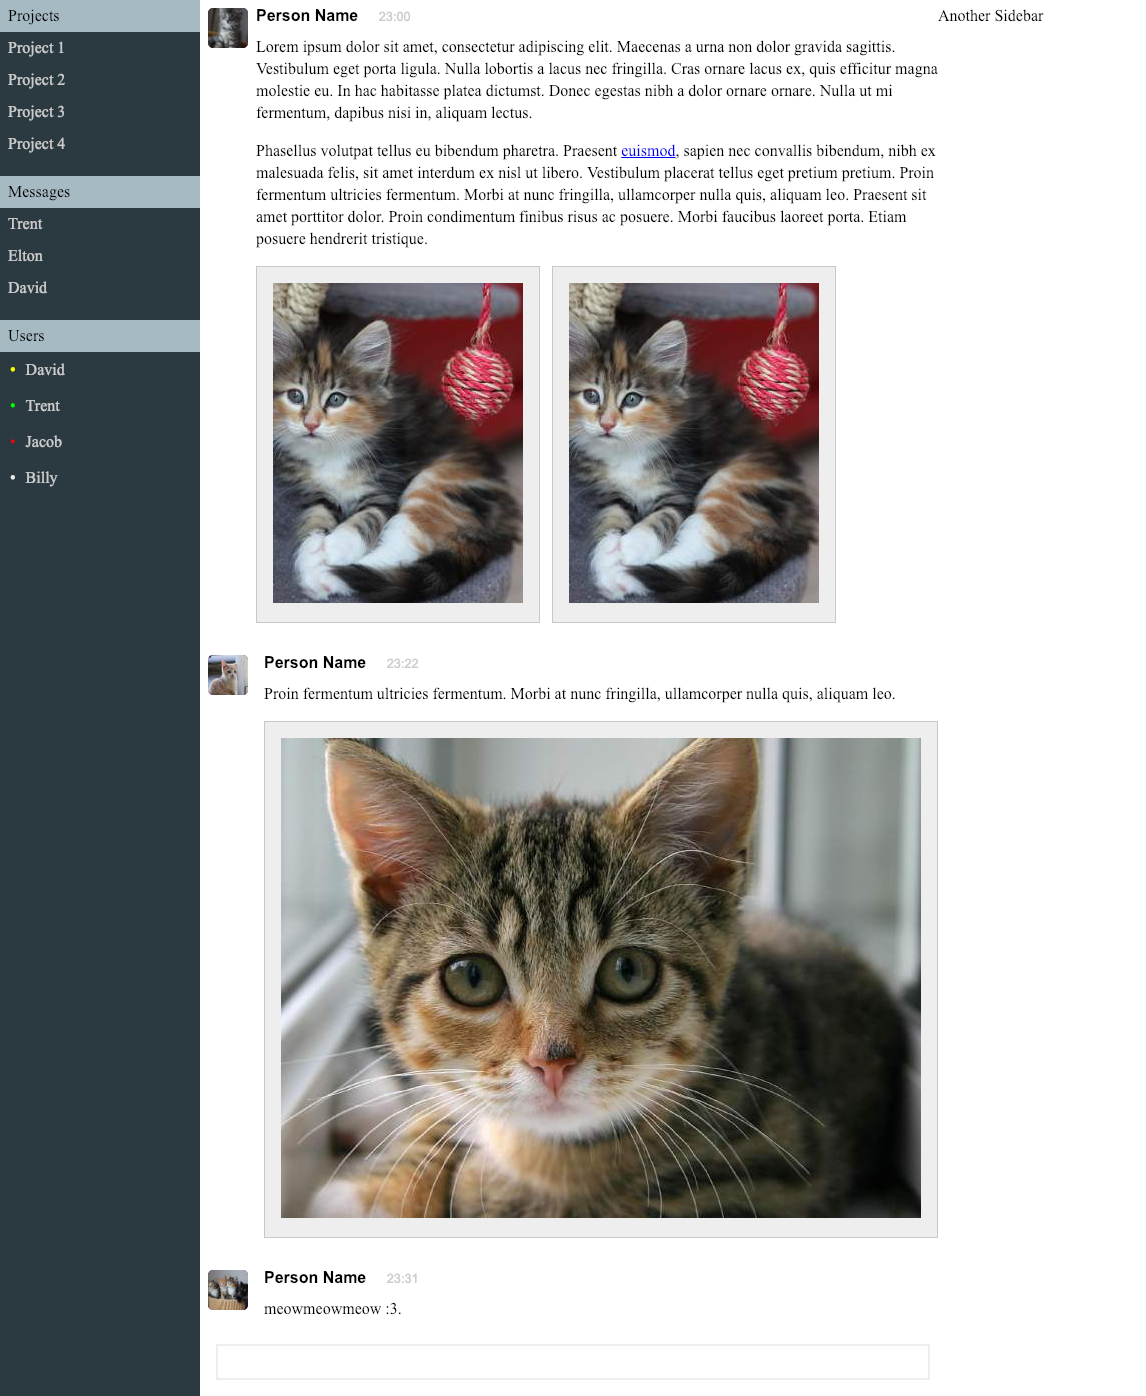
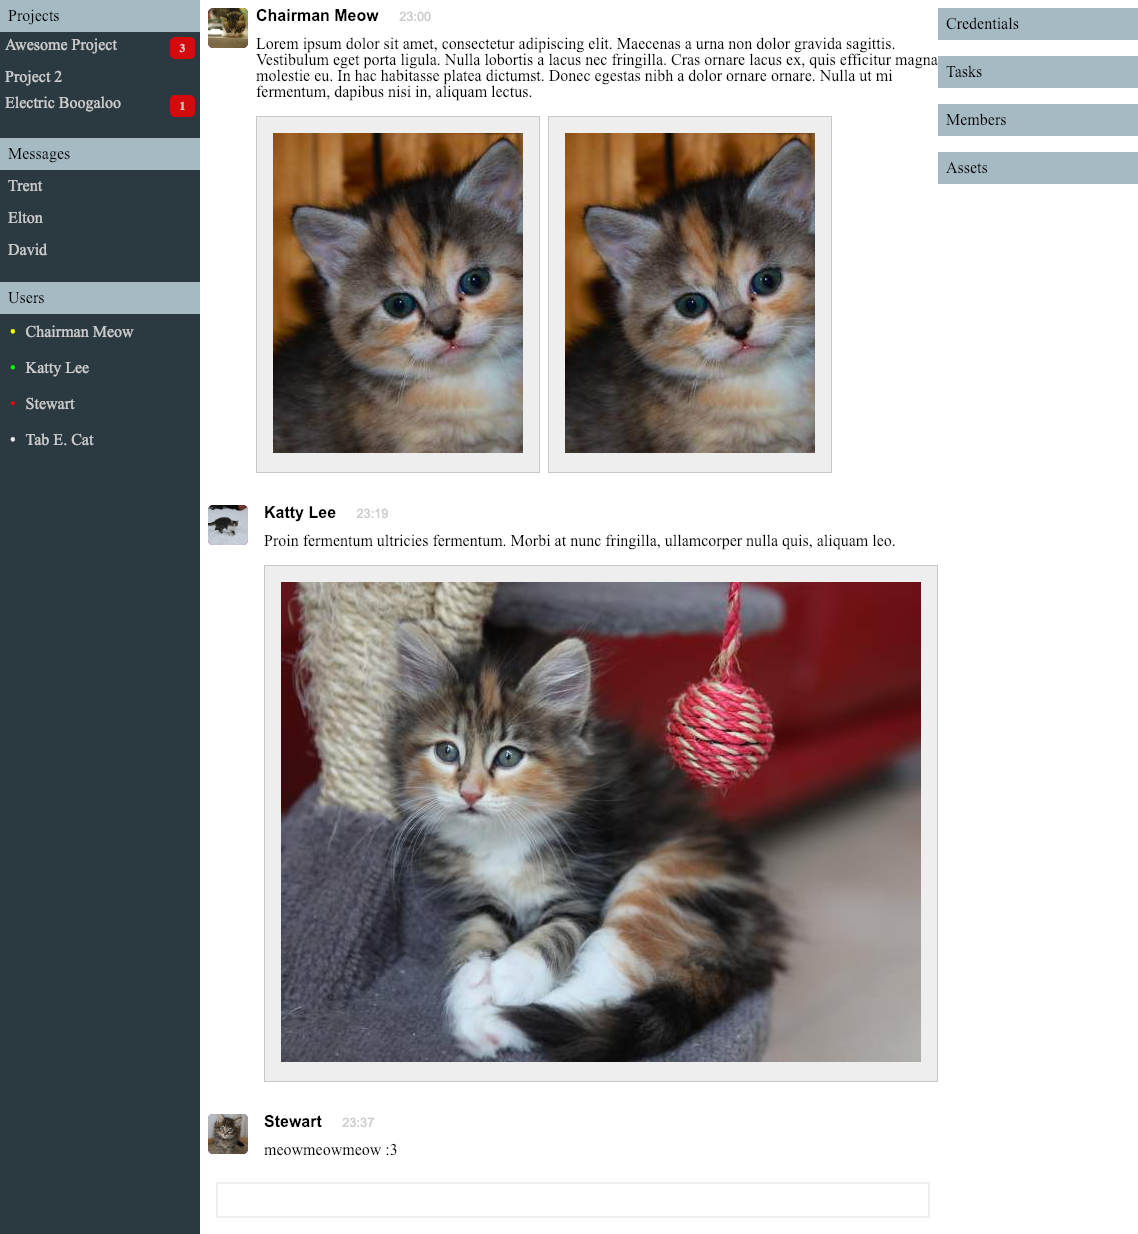
Add mock projects api

diff --git a/app/javascript/packs/components/projects_list.vue b/app/javascript/packs/components/projects_list.vue
@@ -1,15 +1,44 @@
 <template>
     <ul class="projects-list">
-        <li v-for="index in 5" class="project">
-            Project {{ index }}
+        <li v-for="(project, index) in projects" :key="index" class="project">
+            <div class="pill-cell">
+                <span>{{ project.name }}</span>
+
+                <span v-if="project.counter > 0" class="pill">{{ project.counter }}</span>
+            </div>
         </li>
     </ul>
 </template>
 
 <script>
      export default {
-        props: {
-            "projects": Array            
+        data() {
+            return {
+                projects: []
+            }
+        },
+
+        methods: {
+            getProjects() {
+                Morning.getProjects()                                        
+                   .then((projects) => {
+                    console.log("A")
+                    console.log(projects)
+                                        console.log("2")
+                        this.projects = projects
+                    })
+            }
+        },
+
+        mounted() {
+            this.getProjects()
+        },
+
+        updated() {           
+            console.log("Q")
+            console.log("testing")
+            console.log(this)
+            console.log(this.projects)
         }
     }
 </script>   
@@ -32,4 +61,27 @@
             }
         }
     }    
+
+    .pill-cell {
+        display: flex;
+        flex-direction: row;        
+        flex: 1;
+
+        span:first-child {
+            width: 100%;
+        }
+
+        .pill {
+            $size: 5px;
+
+            font-size: 0.75em;
+            background: rgba(255, 0, 0, 0.8);
+            padding: $size;
+            border-radius: $size;
+            min-width: 5 * $size;
+            align-self: flex-end;
+            text-align: center;
+            font-weight: bold
+        }
+    }
 </style>

diff --git a/app/javascript/app.vue b/app/javascript/app.vue
@@ -36,7 +36,26 @@
         <SplitView>
           <ChatView />
           <aside class="doze-app--sidebar project--sidebar">
-            Another Sidebar
+
+            <div class="doze-accordion">
+              <section>
+                <h2>Credentials</h2>
+              </section>
+
+              <section>
+                <h2>Tasks</h2>
+              </section>
+
+              <section>
+                <h2>Members</h2>
+              </section>
+
+              <section>
+                <h2>Assets</h2>
+              </section>
+
+            </div>
+
           </aside>
         </SplitView>
 
@@ -46,10 +65,11 @@
 </template>
 
 <script>
-  import SplitView from './packs/components/split_view.vue';
-  import ChatView from './packs/components/chat_view.vue';
-  import UsersList from './packs/components/users_list.vue';
-  import ProjectsList from './packs/components/projects_list.vue';
+  import SplitView from './packs/components/split_view.vue'
+  import ChatView from './packs/components/chat_view.vue'
+  import UsersList from './packs/components/users_list.vue'
+  import ProjectsList from './packs/components/projects_list.vue'
+  import PillCell from './packs/components/pill_cell.vue'  
 
   export default {
     components: 
@@ -58,6 +78,7 @@
         "users-list": UsersList,
         "projects-list": ProjectsList,
         "ChatView": ChatView,
+        "pill-cell": PillCell
       },
 
       mounted() {        

diff --git a/app/javascript/packs/application.js b/app/javascript/packs/application.js
@@ -7,13 +7,16 @@
 // To reference this file, add <%= javascript_pack_tag 'application' %> to the appropriate
 // layout file, like app/views/layouts/application.html.erb
 
+import Mock from '../mock'
+
 import TurbolinksAdapter from 'vue-turbolinks'
 import Vue from 'vue/dist/vue.esm'
 import Router from 'vue-router'
+
 import App from '../app.vue'
 import ProjectView from '../packs/components/project_view'
 
-import Mock from '../mock'
+console.log(Mock)
 
 Vue.use(Router)
 
@@ -48,6 +51,20 @@ window.Morning.getMessages = () => {
     var promise = new Promise(function(resolve, reject) {
         setTimeout(function() {
             resolve(Mock.messages);                
+        }, 200)
+    });
+
+    return promise;
+}
+
+window.Morning.getProjects = () => {
+    console.log("THERE???")
+    var promise = new Promise(function(resolve, reject) {
+        setTimeout(function() {
+            console.log("HERE?")
+            console.log(Mock.all_projects)
+            console.log(resolve)
+            resolve(Mock.all_projects);                
         }, 200)
     });
 

diff --git a/app/javascript/mock.js b/app/javascript/mock.js
@@ -1,3 +1,21 @@
+const all_projects = [
+    {
+        id: 1,
+        name: "Awesome Project",
+        counter: 3
+    },
+    {
+        id: 2,
+        name: "Project 2",
+        counter: 0
+    },
+    {
+        id: 3,
+        name: "Electric Boogaloo",
+        counter: 1
+    }
+]
+
 const all_users = [
     {
         avatar: {
@@ -68,5 +86,6 @@ const messages = [
 
 export default {
     all_users: all_users,
-    messages: messages
+    messages: messages,
+    all_projects: all_projects
 }
